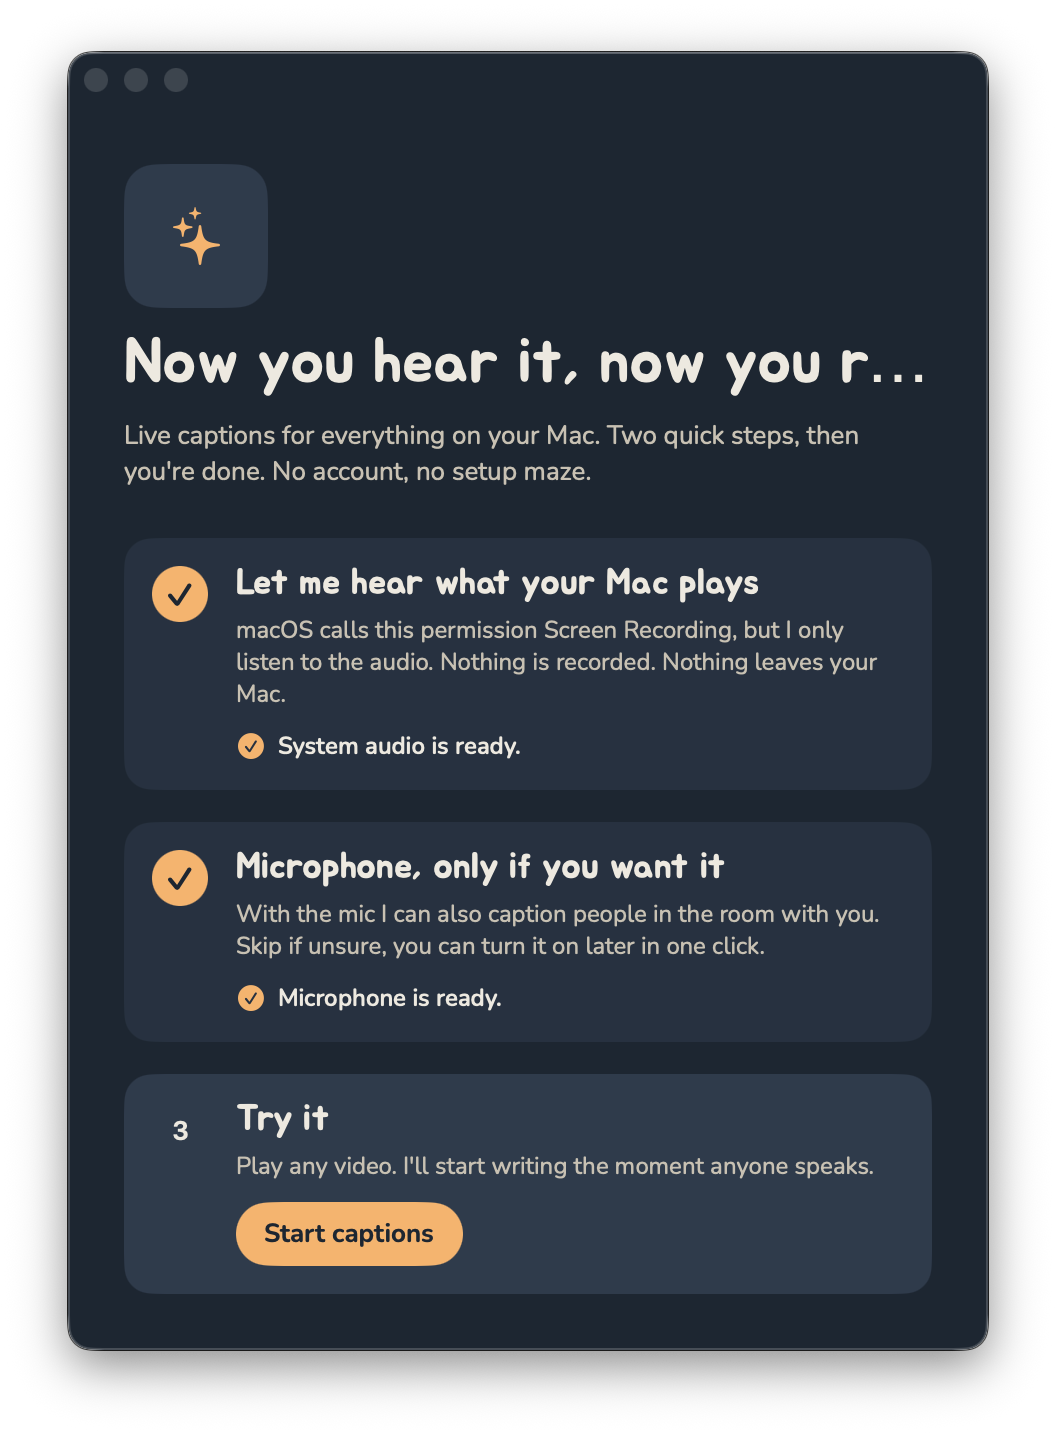
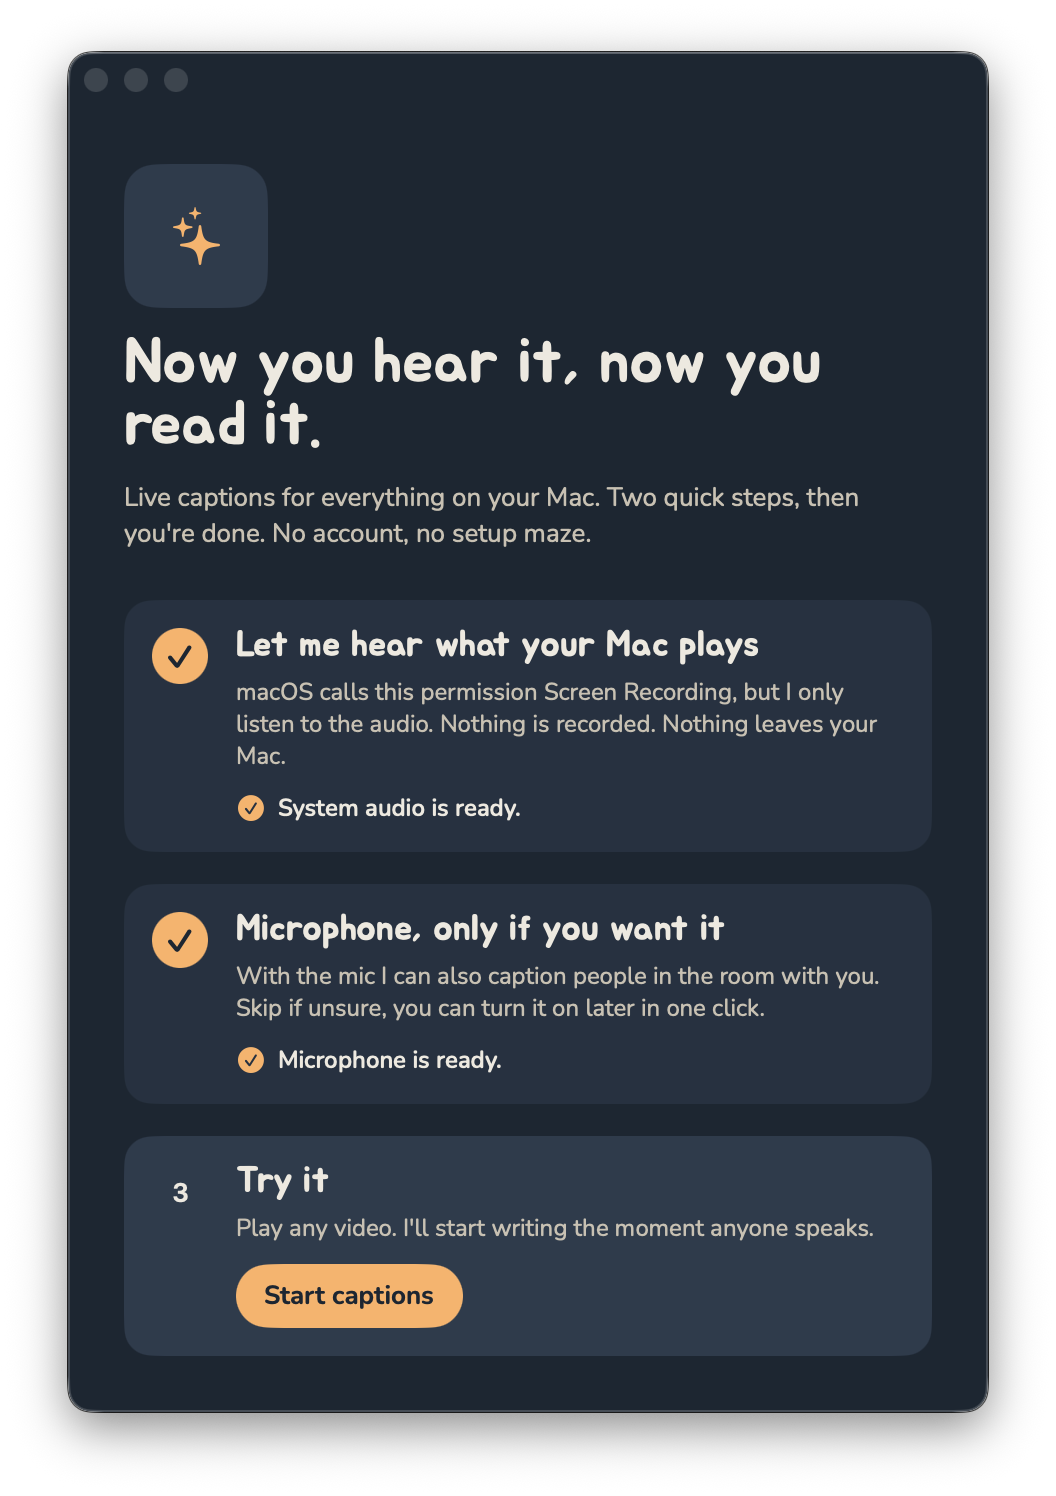
Fixup: restore settings height 660 (TEMP screenshot frame slipped into 0.4.1), refresh onboarding screenshot

Changed region(s): [[0.0625, 0.583, 0.9375, 0.9512], [0.0938, 0.0921, 0.8438, 0.5523], [0.0625, 0.0307, 0.9375, 0.0614]]

diff --git a/Sources/BlablacadabraApp/Settings/SettingsView.swift b/Sources/BlablacadabraApp/Settings/SettingsView.swift
@@ -29,7 +29,7 @@ struct SettingsView: View {
                 .padding(28)
             }
         }
-        .frame(width: 520, height: 1520) // TEMP screenshot height, restore 660
+        .frame(width: 520, height: 660)
         .background(theme.deepSurface)
         .preferredColorScheme(theme.colorScheme)
         .onAppear {